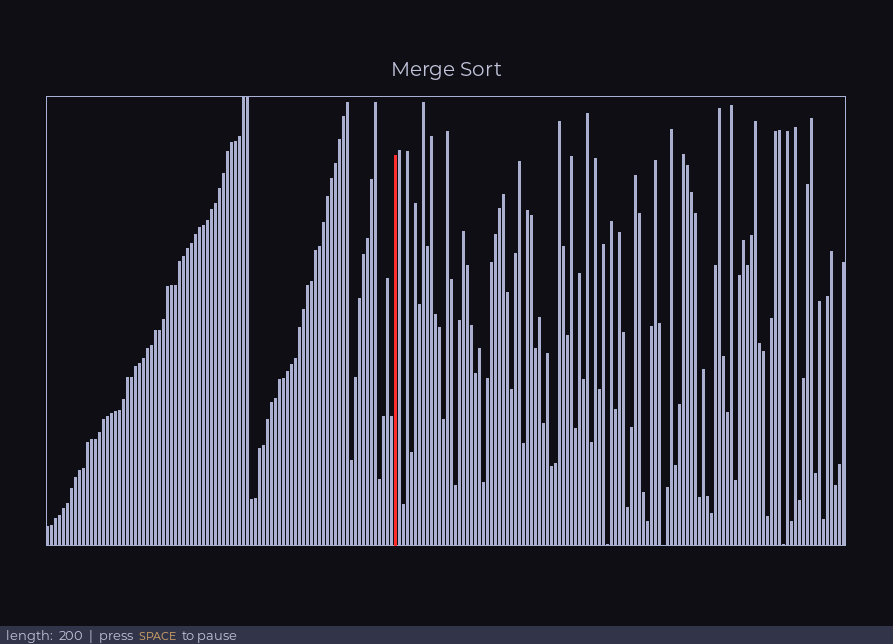
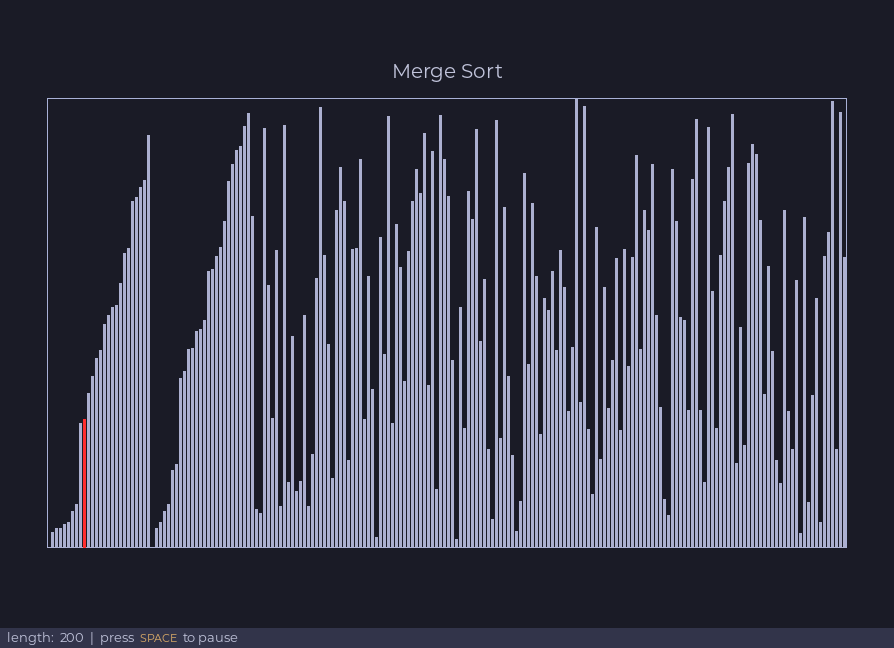
change background

Changed region(s): [[0.0302, 0.0932, 0.9675, 0.8696], [0.0, 0.9627, 0.2721, 1.0]]

diff --git a/src/visualizer.c b/src/visualizer.c
@@ -129,7 +129,7 @@ void process_input(struct App* app) {
 }
 
 void render(struct App* app, int r) {
-    SDL_SetRenderDrawColor(app->renderer, 0x0e, 0x0e, 0x14, 255);
+    SDL_SetRenderDrawColor(app->renderer, 0x1a, 0x1b, 0x26, 255);
     SDL_RenderClear(app->renderer);
 
     SDL_RenderCopyF(app->renderer, app->title_texture, NULL, &app->title_props);
